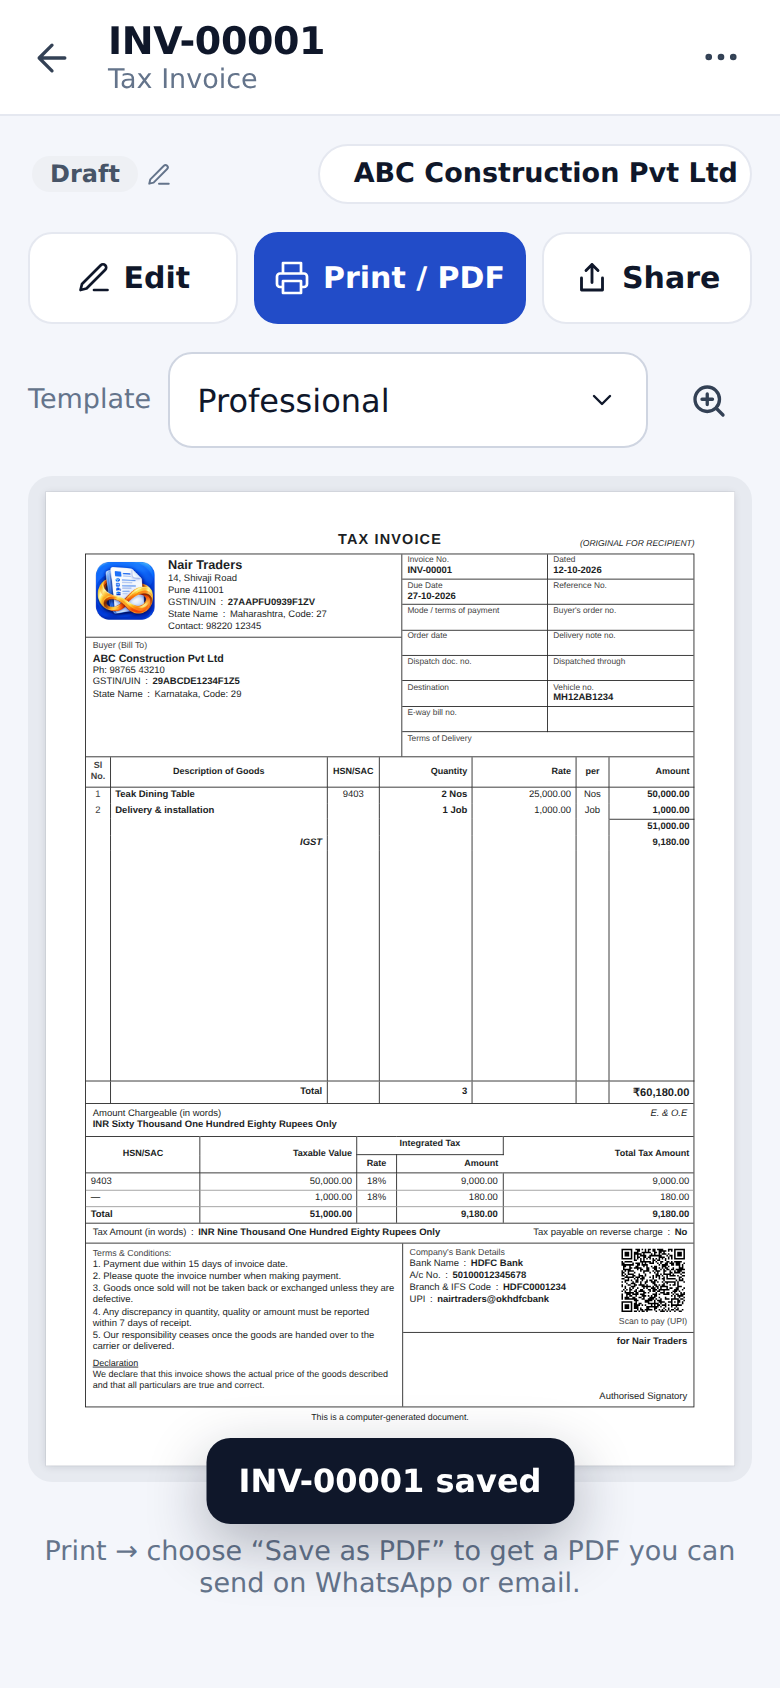
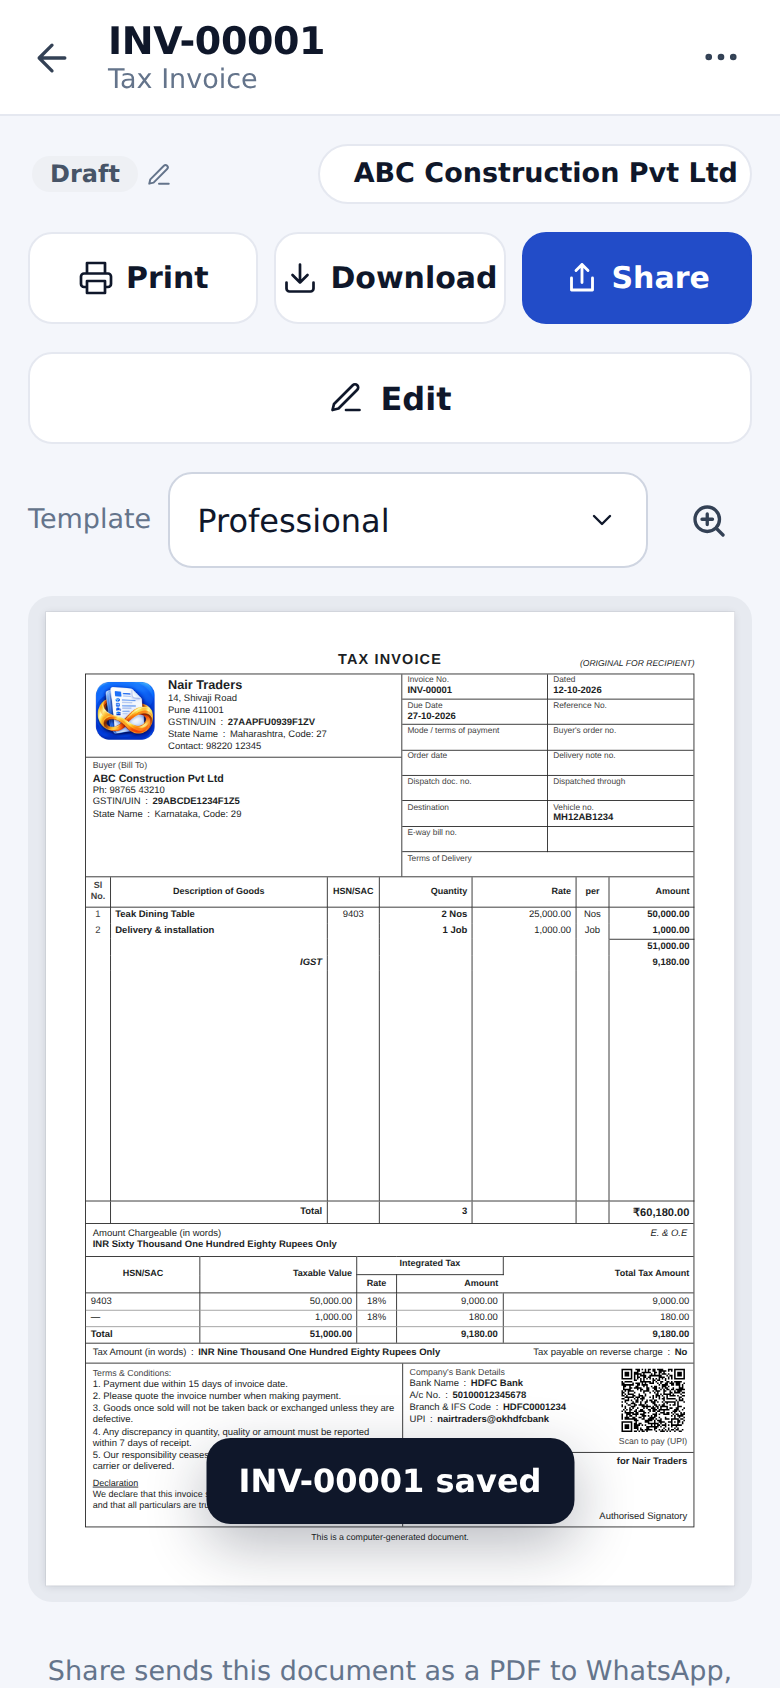
DocGen Mobile: Download PDF and Share as PDF from the document screen
- Buttons: Print · Download · Share in one row, Edit in the row below
- The PDF is made on the phone, offline, from the same drawing as the preview (html-to-image + a small built-in
  PDF writer): all four templates, A4 or A5, multi-page bills page by page
- Download saves it (Downloads on Android, Files on iPhone) with the 1–4 copies from settings
- Share sends the PDF file itself (one copy) through the phone's share menu to WhatsApp, email or any app, with a
  short message; where a browser cannot share files, the PDF is saved instead
- Help texts updated

Tests: mobile e2e 120/120 (actions layout, A4 invoice PDF, A5 quotation PDF, shared file is a PDF).

Claude-Session: https://claude.ai/code/session_01D7TVF84vM5FBD22BWzVv3k

diff --git a/server/mobile/src/lib/pdf.js b/server/mobile/src/lib/pdf.js
@@ -1,0 +1,159 @@
+/**
+ * PDF of a document, made on the phone (no internet, no print dialog): the document is drawn exactly as the preview
+ * (same renderer, template, A4/A5 paper, paging and copies), each page is turned into a sharp picture, and the
+ * pictures are put into a small PDF file. Used by Download and Share on the document screen.
+ */
+
+import { createElement } from 'react';
+import { createRoot } from 'react-dom/client';
+import { toCanvas } from 'html-to-image';
+import PagePreview, { paperSizeOf } from '@desktop/renderer/PagePreview.jsx';
+
+/** Page size in PDF points (1/72 inch). */
+const PAGE_PT = { A4: [595.28, 841.89], A5: [419.53, 595.28] };
+/** Pixels per CSS pixel in the page pictures: about 190 dpi, sharp on a phone and when printed. */
+const SCALE = 2;
+
+const wait = (ms) => new Promise((r) => setTimeout(r, ms));
+
+/** Draw the document off screen, the way the preview and print do. Returns the paper element and a cleanup. */
+async function stage(payload, copies) {
+  const host = document.createElement('div');
+  host.className = 'pdf-stage';
+  // Off screen, but laid out at full size (the preview never scales below 1 here).
+  host.style.cssText = 'position:fixed;left:-10000px;top:0;width:240mm;background:#fff;pointer-events:none;';
+  document.body.appendChild(host);
+  const root = createRoot(host);
+  root.render(createElement(PagePreview, { payload, copies, maxScale: 1 }));
+  // Let the pages be measured and split (paging.js), and fonts and pictures (logo, QR, signature) load.
+  await wait(350);
+  await document.fonts?.ready;
+  await Promise.all([...host.querySelectorAll('img')].map((img) => (img.complete ? null : new Promise((r) => { img.onload = img.onerror = r; }))));
+  await wait(150);
+  const paper = host.querySelector('.page-preview-paper');
+  return {
+    paper,
+    done: () => {
+      root.unmount();
+      host.remove();
+    },
+  };
+}
+
+/**
+ * Page rectangles (CSS px, relative to the paper) of every printed page: each sheet of Professional / Modern is one
+ * page; a Standard / Simple document flows, so it is cut into page-high slices.
+ */
+function pageRects(paper, ratio) {
+  const top = paper.getBoundingClientRect().top;
+  const left = paper.getBoundingClientRect().left;
+  const rects = [];
+  for (const sheet of paper.querySelectorAll('.doc')) {
+    const r = sheet.getBoundingClientRect();
+    if (!r.width || !r.height) continue;
+    const pageH = r.width * ratio;
+    const y0 = r.top - top;
+    if (sheet.classList.contains('doc-sheet') || r.height <= pageH + 2) {
+      rects.push({ x: r.left - left, y: y0, w: r.width, h: Math.min(r.height, pageH) });
+    } else {
+      for (let y = 0; y < r.height - 4; y += pageH) rects.push({ x: r.left - left, y: y0 + y, w: r.width, h: Math.min(pageH, r.height - y) });
+    }
+  }
+  return rects;
+}
+
+const bytesOf = (dataUrl) => {
+  const bin = atob(dataUrl.split(',')[1]);
+  const out = new Uint8Array(bin.length);
+  for (let i = 0; i < bin.length; i++) out[i] = bin.charCodeAt(i);
+  return out;
+};
+
+/** A minimal PDF: one JPEG picture per page, filling the page width. */
+function buildPdf(pages, [pw, ph]) {
+  const enc = new TextEncoder();
+  const parts = [];
+  const offsets = [];
+  let size = 0;
+  const push = (chunk) => {
+    const b = typeof chunk === 'string' ? enc.encode(chunk) : chunk;
+    parts.push(b);
+    size += b.length;
+  };
+  const obj = (n, body) => {
+    offsets[n] = size;
+    push(`${n} 0 obj\n`);
+    for (const b of [].concat(body)) push(b);
+    push('\nendobj\n');
+  };
+  push('%PDF-1.4\n%\xE2\xE3\xCF\xD3\n');
+  const n = pages.length;
+  // 1 catalog, 2 page tree, then per page: page, content, image.
+  const kids = pages.map((_, i) => `${3 + i * 3} 0 R`).join(' ');
+  obj(1, '<< /Type /Catalog /Pages 2 0 R >>');
+  obj(2, `<< /Type /Pages /Kids [${kids}] /Count ${n} >>`);
+  pages.forEach((p, i) => {
+    const pageNo = 3 + i * 3;
+    const h = Math.min(ph, (pw * p.height) / p.width);
+    const draw = `q ${pw.toFixed(2)} 0 0 ${h.toFixed(2)} 0 ${(ph - h).toFixed(2)} cm /Im0 Do Q`;
+    obj(pageNo, `<< /Type /Page /Parent 2 0 R /MediaBox [0 0 ${pw} ${ph}] /Resources << /XObject << /Im0 ${pageNo + 2} 0 R >> >> /Contents ${pageNo + 1} 0 R >>`);
+    obj(pageNo + 1, [`<< /Length ${draw.length} >>\nstream\n`, draw, '\nendstream']);
+    obj(pageNo + 2, [
+      `<< /Type /XObject /Subtype /Image /Width ${p.width} /Height ${p.height} /ColorSpace /DeviceRGB /BitsPerComponent 8 /Filter /DCTDecode /Length ${p.jpeg.length} >>\nstream\n`,
+      p.jpeg,
+      '\nendstream',
+    ]);
+  });
+  const xref = size;
+  const total = 3 + n * 3;
+  push(`xref\n0 ${total}\n0000000000 65535 f \n`);
+  for (let i = 1; i < total; i++) push(`${String(offsets[i]).padStart(10, '0')} 00000 n \n`);
+  push(`trailer\n<< /Size ${total} /Root 1 0 R >>\nstartxref\n${xref}\n%%EOF\n`);
+  return new Blob(parts, { type: 'application/pdf' });
+}
+
+/**
+ * The document as a PDF file.
+ * @param {object} payload   what the preview draws (company, document, items, taxes, settings, parent)
+ * @param {{copies?: number, fileName: string}} opts  copies: 1–4 (Original / Duplicate … labels)
+ * @returns {Promise<File>}
+ */
+export async function documentPdf(payload, { copies = 1, fileName }) {
+  const paper = paperSizeOf(payload);
+  const [pw, ph] = PAGE_PT[paper];
+  const { paper: el, done } = await stage(payload, copies);
+  try {
+    if (!el) throw new Error('The document could not be drawn.');
+    const canvas = await toCanvas(el, { pixelRatio: SCALE, backgroundColor: '#ffffff', cacheBust: false });
+    const pages = pageRects(el, ph / pw).map((r) => {
+      const c = document.createElement('canvas');
+      c.width = Math.round(r.w * SCALE);
+      c.height = Math.round(r.h * SCALE);
+      const g = c.getContext('2d');
+      g.fillStyle = '#fff';
+      g.fillRect(0, 0, c.width, c.height);
+      g.drawImage(canvas, Math.round(r.x * SCALE), Math.round(r.y * SCALE), c.width, c.height, 0, 0, c.width, c.height);
+      return { width: c.width, height: c.height, jpeg: bytesOf(c.toDataURL('image/jpeg', 0.9)) };
+    });
+    if (!pages.length) throw new Error('The document could not be drawn.');
+    const name = /\.pdf$/i.test(fileName) ? fileName : `${fileName}.pdf`;
+    return new File([buildPdf(pages, [pw, ph])], name, { type: 'application/pdf' });
+  } finally {
+    done();
+  }
+}
+
+/** Save a file to the phone (Downloads on Android, Files on iPhone). */
+export function saveFile(file) {
+  const url = URL.createObjectURL(file);
+  const a = document.createElement('a');
+  a.href = url;
+  a.download = file.name;
+  document.body.appendChild(a);
+  a.click();
+  a.remove();
+  setTimeout(() => URL.revokeObjectURL(url), 60_000);
+}
+
+/** Whether this phone can share files from the app (Android Chrome, iPhone Safari 15+). */
+export const canShareFiles = (file) => typeof navigator !== 'undefined' && !!navigator.canShare && navigator.canShare({ files: [file] });

diff --git a/server/mobile/src/screens/View.jsx b/server/mobile/src/screens/View.jsx
@@ -16,6 +16,7 @@ import Icon from '../components/Icon.jsx';
 import { ActionSheet, Header, Picker, Sheet, Spinner, StatusBadge, go, useUi } from '../components/ui.jsx';
 import { StatusSheet } from '../components/docs.jsx';
 import { isCancelled, useApp, useDocumentActions } from '../data.jsx';
+import { canShareFiles, documentPdf, saveFile } from '../lib/pdf.js';
 
 const parseMeta = (meta) => {
   try {
@@ -152,7 +153,51 @@ export default function View({ id, query = {} }) {
     return undefined;
   }, [payload, query.print, print, id]);
 
+  // Download / Share as PDF: made on the phone from the same drawing as the preview.
+  const [making, setMaking] = useState('');
+  const makePdf = (copies) => documentPdf(payload, { copies, fileName: fileTitle });
+  const download = async () => {
+    if (making) return;
+    setMaking('download');
+    try {
+      saveFile(await makePdf(clampCopies(settings.documentCopies)));
+      toast('PDF saved to your phone (Downloads)');
+    } catch (e) {
+      toast(e.message || 'The PDF could not be made. Use Print → Save as PDF instead.', 'bad');
+    } finally {
+      setMaking('');
+    }
+  };
+  /** Share the PDF (one copy) to WhatsApp, email or any app; without file sharing, the PDF is saved instead. */
   const share = async () => {
+    if (making) return;
+    setMaking('share');
+    let file;
+    try {
+      file = await makePdf(1);
+    } catch (e) {
+      setMaking('');
+      return toast(e.message || 'The PDF could not be made.', 'bad');
+    }
+    setMaking('');
+    try {
+      if (canShareFiles(file)) {
+        await navigator.share({ files: [file], title: fileTitle, text: shareText() });
+      } else {
+        saveFile(file);
+        toast('This browser cannot share files — the PDF was saved instead. Attach it in WhatsApp or email.');
+      }
+    } catch (e) {
+      if (e?.name !== 'AbortError') {
+        saveFile(file);
+        toast('Sharing did not work. The PDF was saved instead.', 'bad');
+      }
+    }
+    return undefined;
+  };
+
+  /** A short message sent with the PDF. */
+  const shareText = () => {
     const type = getType(doc.document_type);
     const text = [
       `${ds.title || type.title} ${doc.document_number}`,
@@ -163,15 +208,7 @@ export default function View({ id, query = {} }) {
     ]
       .filter(Boolean)
       .join('\n');
-    try {
-      if (navigator.share) await navigator.share({ title: fileTitle, text });
-      else {
-        await navigator.clipboard.writeText(text);
-        toast('Details copied — paste them in WhatsApp or email. Use Print → Save as PDF to send the document itself.');
-      }
-    } catch {
-      /* share cancelled */
-    }
+    return text;
   };
 
   const changeTemplate = async (tid) => {
@@ -276,19 +313,24 @@ export default function View({ id, query = {} }) {
             <Icon name="undo" size={18} /> Restore
           </button>
         ) : (
-          <div className="view-actions no-print">
+          <>
+            <div className="view-actions no-print">
+              <button className="btn" onClick={print} data-testid="print-doc">
+                <Icon name="printer" size={18} /> Print
+              </button>
+              <button className="btn" onClick={download} disabled={!!making} data-testid="download-pdf">
+                <Icon name="download" size={18} /> {making === 'download' ? 'Making…' : 'Download'}
+              </button>
+              <button className="btn btn-primary" onClick={share} disabled={!!making} data-testid="share-doc">
+                <Icon name="share" size={18} /> {making === 'share' ? 'Making…' : 'Share'}
+              </button>
+            </div>
             {!cancelled && (
-              <button className="btn" onClick={() => actions.edit(doc)} data-testid="edit-doc">
+              <button className="btn btn-block no-print" onClick={() => actions.edit(doc)} data-testid="edit-doc">
                 <Icon name="edit" size={18} /> Edit
               </button>
             )}
-            <button className="btn btn-primary" onClick={print} data-testid="print-doc">
-              <Icon name="printer" size={18} /> Print / PDF
-            </button>
-            <button className="btn" onClick={share} data-testid="share-doc">
-              <Icon name="share" size={18} /> Share
-            </button>
-          </div>
+          </>
         )}
         {!deleted && (
           <div className="row no-print">
@@ -307,7 +349,7 @@ export default function View({ id, query = {} }) {
             <PagePreview payload={payload} copies={clampCopies(settings.documentCopies)} />
           </div>
         </div>
-        <p className="small muted center no-print">Print → choose “Save as PDF” to get a PDF you can send on WhatsApp or email.</p>
+        <p className="small muted center no-print">Share sends this document as a PDF to WhatsApp, email or any app. Download saves the PDF on your phone.</p>
       </div>
 
       {sheet === 'more' && <ActionSheet title={`${doc.document_number} · ${type.short}`} items={more} onClose={() => setSheet('')} />}

diff --git a/server/mobile/src/screens/settings/system.jsx b/server/mobile/src/screens/settings/system.jsx
@@ -352,7 +352,7 @@ export function BackupSection() {
 }
 
 const GUIDES = [
-  ['Create your first invoice', ['On the Dashboard tap + on the Invoices card (or the round + button).', 'Type the customer name or pick a saved one — "Save this customer" keeps it for next time.', 'Add items: pick a saved product or type name, quantity, unit and rate. GST is calculated automatically.', 'Tap Save. The number comes from your series (Settings → Numbering).', 'Tap Print / PDF and choose "Save as PDF" to send it on WhatsApp or email.']],
+  ['Create your first invoice', ['On the Dashboard tap + on the Invoices card (or the round + button).', 'Type the customer name or pick a saved one — "Save this customer" keeps it for next time.', 'Add items: pick a saved product or type name, quantity, unit and rate. GST is calculated automatically.', 'Tap Save. The number comes from your series (Settings → Numbering).', 'Tap Share to send it as a PDF on WhatsApp, email or any app, or Download to save the PDF on your phone.']],
   ['GST invoice checklist', ['Enter your GSTIN, state and PAN in Settings → Company.', "Enter the customer's GSTIN — the state is filled in from it.", 'Place of supply decides CGST + SGST (same state) or IGST (other state).', 'Add HSN / SAC codes to products — the HSN summary is printed on the invoice.', 'The Professional template has the complete GST layout.']],
   ['Documents', ['Documents lists everything you created. Search by number, customer or product.', 'Tap the status of a document to change it.', 'Deleted documents can be restored from "Deleted".']],
   ['Templates', ['Settings → Documents: the default template (Professional, Standard, Modern, Simple).', 'Settings → Document Types: a different template for one type.', 'On a document, the Template switch changes only that document.']],
@@ -362,7 +362,7 @@ const GUIDES = [
 const FAQ = [
   ['Does DocGen Mobile need the internet?', 'No. It works offline. The internet is used only to activate and to check your license once a day when available.'],
   ['Is my business data uploaded?', 'Never. Documents, customers, products and files stay on this phone.'],
-  ['How do I get a PDF?', 'Open the document → Print / PDF → choose "Save as PDF" as the printer.'],
+  ['How do I get a PDF?', 'Open the document and tap Download: the PDF is saved on your phone (Downloads on Android, Files on iPhone). Share sends the PDF straight to WhatsApp, email or any other app.'],
   ['Can I edit an issued invoice?', 'Yes, DocGen warns you first. For correct accounts, prefer cancelling and re-issuing, or a credit / debit note.'],
 ];
 

diff --git a/server/mobile/src/styles.css b/server/mobile/src/styles.css
@@ -1424,11 +1424,18 @@ button.license-chip {
 }
 .view-actions {
   display: grid;
-  grid-template-columns: 1fr 1.3fr 1fr;
+  grid-template-columns: repeat(3, minmax(0, 1fr));
   gap: 8px;
 }
 .view-actions .btn {
-  padding: 0 8px;
+  padding: 0 6px;
+  gap: 5px;
+  min-width: 0;
+  white-space: nowrap;
+  font-size: 14.5px;
+}
+.view-actions .btn .icon {
+  flex: none;
 }
 .lineage {
   display: flex;
@@ -1779,4 +1786,12 @@ button.license-chip {
   font-size: 14px;
   font-weight: 600;
   cursor: pointer;
+}
+
+/* Download / Share as PDF: the document is drawn off screen with its print-only extra copies shown. */
+.pdf-stage .print-only {
+  display: block !important;
+}
+.pdf-stage .doc-extra-copy {
+  margin-top: 8mm;
 }

diff --git a/server/mobile/src/screens/Documents.jsx b/server/mobile/src/screens/Documents.jsx
@@ -137,7 +137,7 @@ export default function Documents({ query }) {
     return [
       { label: 'View', icon: 'eye', onClick: () => actions.view(d) },
       { label: 'Edit', icon: 'edit', onClick: () => actions.edit(d), testId: 'action-edit' },
-      { label: 'Print / PDF', icon: 'printer', onClick: () => actions.print(d) },
+      { label: 'Print', icon: 'printer', onClick: () => actions.print(d) },
       { label: 'Duplicate', icon: 'copy', onClick: () => actions.duplicate(d), testId: 'action-duplicate' },
       ...t.conversions.map((c) => ({ label: `Convert to ${TYPE_MAP[c]?.short || c}`, icon: 'convert', onClick: () => actions.convert(d, c), testId: `action-convert-${c}` })),
       { divider: true, key: 'd' },

diff --git a/TESTING.md b/TESTING.md
@@ -11,7 +11,7 @@ Last full run: **12 October 2026** (after additional charges, A4/A5 for every do
 | Server API + customer-journey tests (SQLite) | `cd server && npm test` | **66 / 66 passed** (11 October 2026; 19 API, 46 journey/checkout/terms/payments/licensing/durations/phones/downloads/email/support/prices/Meta Conversions API/offer settings, 1 rate-limit) |
 | Server API + customer-journey tests (MySQL 8.0) | `TEST_DATABASE_URL=mysql://… npm test` | **54 / 54 passed** (previous run; not re-run this round) |
 | Website, client panel + admin end-to-end (Chromium) | `cd server && npm run build && npm run test:portal` | **180 / 180 passed** (12 October 2026, incl. the website pricing cards and checkout plans: 1 year highlighted as "Recommended", price per month, savings, "pay once, no auto-debit"; every public page's full text and title in the HTML with JavaScript off (home with pricing and FAQ, /buy with the plans, mobile, support, contact, policies), description / canonical / link-preview tags, the panels not rendered on the server, robots.txt, sitemap.xml without the ad page, the ad page kept out of search; 11 October: the offer page's headline, price and Download button in the HTML itself (visible with JavaScript off, no developer message), gzip, the intro YouTube video on the website and the offer page, "Download" buttons, the offer page story (hero matching the ads, the 25-second demo playing, sections in order, saved customers / products, 18 document types, 9 product pictures all loading, FAQ with "What happens after I pay?", no made-up numbers until the admin adds real ones and reviews), the Pixel base code in the page HTML (not on the admin panel), Meta Pixel PageView / ViewContent / InitiateCheckout / Purchase (none on the admin panel), the plain /buy checkout and the /offer ad page on a phone: price drop, Get DocGen → payment → license, switchable in Admin → Website) |
-| DocGen Mobile end-to-end (Chromium, phone-sized 390 × 844, touch) | `npm run test:mobile` | **115 / 115 passed** (12 October 2026; incl. the setup tutorial opening YouTube in a new tab, two charges on a quotation (₹27,240), the quotation's default terms, placeholders, a quotation on A5, the optional Customers screen (switch on, list, search, add, archive, restore); a receipt against an invoice with the balance, printed on A5, the setup tax and template steps and a plain http:// network address) |
+| DocGen Mobile end-to-end (Chromium, phone-sized 390 × 844, touch) | `npm run test:mobile` | **120 / 120 passed** (12 October 2026; incl. Download PDF (A4 invoice, A5 quotation, named after the document) and Share sending the PDF file itself; the setup tutorial opening YouTube in a new tab, two charges on a quotation (₹27,240), the quotation's default terms, placeholders, a quotation on A5, the optional Customers screen (switch on, list, search, add, archive, restore); a receipt against an invoice with the balance, printed on A5, the setup tax and template steps and a plain http:// network address) |
 | Server, portal and mobile lint | ESLint (desktop rules) over `backend/src`, `backend/test`, `frontend/src`, `mobile/src`, e2e scripts | 0 problems |
 | Server load test (SQLite and MySQL 8.0) | `npm run loadtest` | 0 errors, see below |
 | Windows + macOS installer build (GitHub Actions) | `docgen-build.yml` | Windows: build + unit tests passed (Windows-only PDF code compiles); macOS: see the workflow run |

diff --git a/server/README.md b/server/README.md
@@ -345,7 +345,9 @@ with pictures (`/mobile#android`, images in `frontend/public/install/`).
   sales CSV download); editor (saved customers and products, GSTIN → state, CGST/SGST or IGST from the place of supply,
   discounts, any number of additional charges each with its own GST rate, round off, additional details per type, default
   terms and declaration per type (editable per document), A4 or A5 per document, receipts and payment vouchers, live
-  preview); document view (template per document, Print / Save as PDF with 1–4 copies, share, history, contact the
+  preview); document view (template per document; Print, Download PDF and Share as PDF — the PDF is made on the phone
+  from the same drawing as the preview, A4 or A5, Download with the 1–4 copies from settings, Share with one copy through
+  the phone's share menu to WhatsApp, email or any app; history, contact the
   customer by call / WhatsApp / email); Products & Services with categories, and under it the optional Customers and
   Vendors screens (off by default; a small + switches them on; deleting archives a party that is on documents, so
   documents never change); Settings (Company with logo, signature and stamp, Documents, Document Types with paper size,
